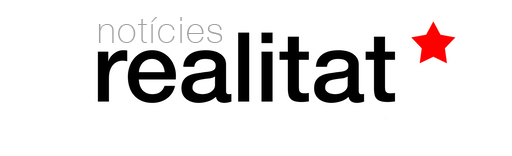
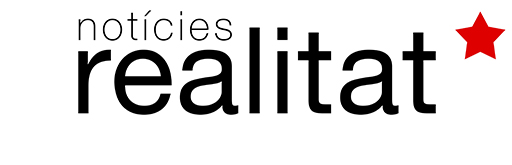
Images

Changed region(s): [[0.125, 0.0513, 1.0, 0.7179]]

diff --git a/templates/realitat-blogger-column-alfonsalesquerra.html b/templates/realitat-blogger-column-alfonsalesquerra.html
@@ -54,14 +54,15 @@
 	<!-- Page content -->
 	<div class="page" id="page">
 	
-		<nav class="sticky anm-fadeIn">
+		<nav class="sticky">
 			<div class="content">
 				<input class="toggletrigger" type="checkbox" id="mob-nav" name="mob-nav" aria-hidden="true" hidden>
 				<label for="mob-nav" class="toggle">Menú <span class="caret"></span></label>
 				<div id="nav-collapse" class="togglecollapsed">
 					<a href="http://realitat.cat" title="www.realitat.cat"><b>realitat<em class="unify red">*</em></b></a>
-					<a href="<$BlogUrl$>" title="Notícies de la realitat*"><b>Notícies</b></a>
-					<a href="http://miquelangelsoria.realitat.cat" title="Columna literària de Miquel Àngel Soria">Les Arrels</a>
+					<a href="http://noticies.realitat.cat" title="Notícies de la realitat*">Notícies</a>
+					<a href="http://miquelangelsoria.realitat.cat" title="Columna de Miquel Àngel Soria">Les Arrels</a>
+					<a href="http://alfonsalesquerra.realitat.cat" title="Columna cultural"><b>Al fons a l'esquerra</b></a>
 					<form class="form-search" action="http://www.google.com/cse"> 
 						<input type="hidden" name="cx" value="007620493827235173837:p9bytcfv9gu"> 
 						<input type="text" name="q" class="terms squared" placeholder="cerca"> 
@@ -72,48 +73,30 @@
 		</nav>
 
 <MainOrArchivePage>
-		<header id="blog-header" class="anm-fadeIn delay-100">
+		<header class="universe">
 			<div class="content">
-				<a href="<$BlogUrl$>" title="Realitat" class="level-5 level-blocked"><img src="http://codi.realitat.cat/src/img/header-realitat-news.jpg" alt="realitat*"></a>
-				<h1 class="closed"><$BlogTitle$></h1>
-				<div class="button-centered absolute right top hidden-phone">
-					<a href="<$BlogUrl$>feeds/posts/default" class="button-icon circled hover-white orange xs anm-moveFromRightFade delay-2000" target="blank" title="Segueix-nos amb RSS"> <b>RSS</b> </a> 
-					<a href="http://www.twitter.com/larealitat" class="button-icon circled hover-white soft-blue xs anm-moveFromRightFade delay-2000" target="blank" title="Segueix-nos a Twitter"> <b>Tw</b> </a>
-					<a href="http://www.facebook.com/larealitat" class="button-icon circled hover-white blue xs anm-moveFromRightFade delay-2000" target="blank" title="Segueix-nos a Facebook"> <b>Fb</b> </a>
-					<a href="https://plus.google.com/115185630100620701614" class="button-icon circled hover-white red xs anm-moveFromRightFade delay-2000" target="blank" title="Segueix-nos a Google +"> <b>G+</b> </a>
-				</div>
-				<div class="button-centered absolute bottom visible-phone">
-					<a href="<$BlogUrl$>feeds/posts/default" class="button-icon circled hover-white orange xs anm-moveFromRightFade delay-2000" target="blank" title="Segueix-nos amb RSS"> <b>RSS</b> </a> 
-					<a href="http://www.twitter.com/larealitat" class="button-icon circled hover-white soft-blue xs anm-moveFromRightFade delay-2000" target="blank" title="Segueix-nos a Twitter"> <b>Tw</b> </a>
-					<a href="http://www.facebook.com/larealitat" class="button-icon circled hover-white blue xs anm-moveFromRightFade delay-2000" target="blank" title="Segueix-nos a Facebook"> <b>Fb</b> </a>
-					<a href="https://plus.google.com/115185630100620701614" class="button-icon circled hover-white red xs anm-moveFromRightFade delay-2000" target="blank" title="Segueix-nos a Google +"> <b>G+</b> </a>
-				</div>
+				<a href="<$BlogUrl$>" title="<$BlogTitle$>" class=""><img src="http://codi.realitat.cat/src/img/header-realitat-alfonsalesquerra.jpg" alt="<$BlogTitle$>"></a>
+				<h1 class="xxl closed"><$BlogTitle$></h1>
+				<p class="lead closed"><$BlogDescription$></p>
 			</div>
 		</header>
 		
-		<nav class="sticky anm-fadeIn delay-200">
+		<main>
 			<div class="content">
-				<input class="toggletrigger" type="checkbox" id="mob-nav2" name="mob-nav2" aria-hidden="true" hidden>
-				<label for="mob-nav2" class="toggle">Tema <span class="caret"></span></label>
-				<div id="nav-collapse" class="togglecollapsed">
-					<a href="http://realitat.cat" title="www.realitat.cat"><b>realitat<em class="unify red">*</em></b></a>
-					<a href="<$BlogUrl$>" title="Notícies de la realitat*: Tots els temes">Notícies</a>
-					<a href="<$BlogUrl$>search/label/Humanisme" title="Notícies de la realitat*: Humanisme">Humanisme</a>
-					<a href="<$BlogUrl$>search/label/Economia" title="Notícies de la realitat*: Economia">Economia</a>
-					<a href="<$BlogUrl$>search/label/Política" title="Notícies de la realitat*: Política">Política</a>
-					<a href="<$BlogUrl$>search/label/Ciència" title="Notícies de la realitat*: Ciència">Ciència</a>
-					<a href="<$BlogUrl$>search/label/Tecnologia" title="Notícies de la realitat*: Tecnologia">Tecnologia</a>
-					<a href="<$BlogUrl$>search/label/Arts" title="Notícies de la realitat*: Arts">Arts</a>
-					<a href="<$BlogUrl$>search/label/Història" title="Notícies de la realitat*: Història">Història</a>
+				<div class="cell-3">
+					<div class="panel">
+						<h2 class="universe thin title"><small>Segueix-nos!</small></h2>
+						<div class="button-centered s">
+							<a href="<$BlogUrl$>feeds/posts/default" class="button-icon circled hover-white orange" target="blank" title="Segueix-nos amb RSS"> <b>RSS</b> </a> <br>
+							<a href="http://www.twitter.com/larealitat" class="button-icon circled hover-white soft-blue" target="blank" title="Segueix-nos a Twitter"> <b>Tw</b> </a><br>
+							<a href="http://www.facebook.com/larealitat" class="button-icon circled hover-white blue" target="blank" title="Segueix-nos a Facebook"> <b>Fb</b> </a><br>
+							<a href="https://plus.google.com/115185630100620701614" class="button-icon circled hover-white red" target="blank" title="Segueix-nos a Google +"> <b>G+</b> </a>
+						</div>
+					</div>
 				</div>
-			</div>
-		</nav>
-
-		<main clas="anm-fadeIn delay-300">
-			<div class="content">
 				<div class="cell-6">
-					<h2 class="universe thin"><small>Notícies</small></h2>
-					<div class="news anm-fadeIn delay-500">
+					<h2 class="universe thin"><small>Articles</small></h2>
+					<div class="news">
 						<Blogger>
 							<article id="<$BlogItemNumber$>">
 								<header>
@@ -125,21 +108,15 @@
 						</Blogger>
 					</div>
 					<hr class="no-margin">
-					<h2 class="universe thin"><small>Més notícies</small></h2>
+					<h2 class="universe thin"><small>Més articles</small></h2>
 					<nav class="pagination"><$BlogPaginationLinks$></nav>
 					<hr>
 				</div>
-				<div class="cell-6">
-					<h2 class="universe thin"><small>Articles</small></h2>
-					<section class="panel sections anm-fadeIn delay-1500">
-						<script type="text/javascript" src="https://feed.mikle.com/js/fw-loader.js" data-fw-param="8098/"></script> 
-						<hr>
-					</section>
-					<h2 class="universe thin"><small>les Arrels</small></h2>
-					<section class="panel sections anm-fadeIn delay-1500">
-						<script type="text/javascript" src="https://feed.mikle.com/js/fw-loader.js" data-fw-param="8642/"></script>
-						<hr>
-					</section>
+				<div class="cell-3">
+					<div class="panel">
+						<h2 class="universe thin title"><small>Sobre el bloc</small></h2>
+						<p clas="lead"><$BlogDescription$></p>
+					</div>
 				</div>
 				<hr>
 			</div>
@@ -148,7 +125,7 @@
 
 <ItemPage>
 		<a class="absolute top left button-icon xs circled unify visible-phone" href="<$BlogUrl$>" title="<$BlogTitle$>"><img src="http://codi.realitat.cat/src/ics/favicon-32x32.png" alt="realitat"></a>		
-		<header id="article-header" class="universe anm-fadeIn delay-100">
+		<header id="article-header" class="universe">
 			<div class="content">
 				<div class="prev-next"><$BlogPaginationLinks$></div>
 				<Blogger>
@@ -157,9 +134,9 @@
 				</Blogger>
 			</div>
 		</header>
-		<main class="anm-fadeIn delay-300">
+		<main>
 			<div class="content">
-				<div class="cell-3 hidden-phone universe anm-fadeIn slow delay-1000">
+				<div class="cell-3 hidden-phone universe">
 					<h2 class="thin"><small>Segueix-nos</small></h2>
 					<div class="button-centered s">
 						<a href="<$BlogUrl$>feeds/posts/default" class="button-icon circled hover-white orange" target="blank" title="Segueix-nos amb RSS"> RSS </a> <br>
@@ -170,7 +147,7 @@
 				</div>
 				<div class="cell-6">
 					<Blogger>
-						<div class="article-content anm-rotatePullTop delay-400">
+						<div class="article-content">
 							<$BlogItemBody$>
 						</div>
 						<hr>
@@ -180,6 +157,23 @@
 					<h2 class="universe thin"><small>Més articles</small></h2>
 					<nav class="pagination"><$BlogPaginationLinks$></nav>
 					<hr>
+					<Blogger>
+						<BlogItemCommentsEnabled>
+						<aside id="comment-form">
+						   <h4 class="universe"><$BlogItemCommentCount$> Comentari(s):</h4>
+						   <BlogItemComments>
+								<a name="<$BlogCommentNumber$>"></a>
+								<div class="conversation-a">
+									<p><strong><$BlogCommentAuthor$> ha dit:</strong><br /><$BlogCommentBody$></p>
+									<p>at <a href="#<$BlogCommentNumber$>"><$BlogCommentDateTime$></a><$BlogCommentDeleteIcon$></p>
+								</div>
+								<hr />
+							</BlogItemComments>
+						   <div class="button-centered"><a class="button-icon hover-white green" title="Publica un comentari" href="<$BlogItemCommentCreate$>" <$BlogItemCommentFormOnClick$>+</a></div>
+						</aside>
+						<hr>
+						</BlogItemCommentsEnabled>
+					</Blogger>
 					<aside class="aside-tools universe base">
 						<h2 class="thin"><small>Anteriors</small></h2>
 						<nav><BloggerPreviousItems>
@@ -190,7 +184,7 @@
 					</aside>
 					<hr>
 				</div>
-				<div class="cell-3 sticky-2 anm-fadeIn slow delay-1000">
+				<div class="cell-3 sticky-2">
 					<h2 class="universe thin visible-phone"><small>Segueix-nos</small></h2>
 					<div class="button-centered visible-phone s">
 						<a href="<$BlogUrl$>feeds/posts/default" class="button-icon circled hover-white orange" target="blank" title="Segueix-nos amb RSS"> RSS </a> <br class="hidden-phone">
@@ -209,7 +203,7 @@
 					<h2 class="universe thin"><small>Tradueix</small></h2>
 					<div class="button-centered s">
 						<Blogger>
-							<a class="button-icon hover-white sky anm-fadeIn delay-1800" href="http://translate.google.es/translate?hl=es&sl=auto&tl=es&u=<$BlogItemPermalinkURL$>" target="blank" title="Translate with Google Translate">Idioma</a>
+							<a class="button-icon hover-white sky" href="http://translate.google.es/translate?hl=es&sl=auto&tl=es&u=<$BlogItemPermalinkURL$>" target="blank" title="Translate with Google Translate">Idioma</a>
 						</Blogger>
 					</div>
 				</div>
